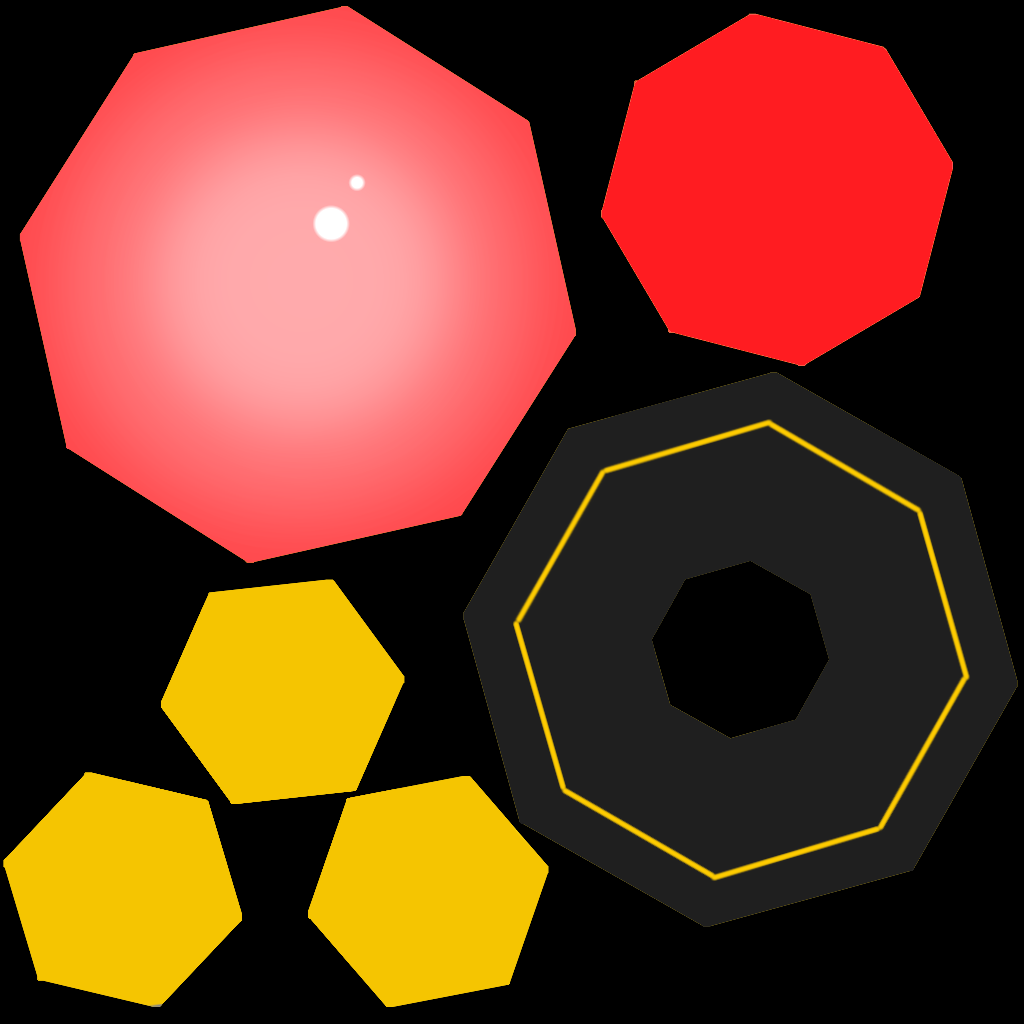
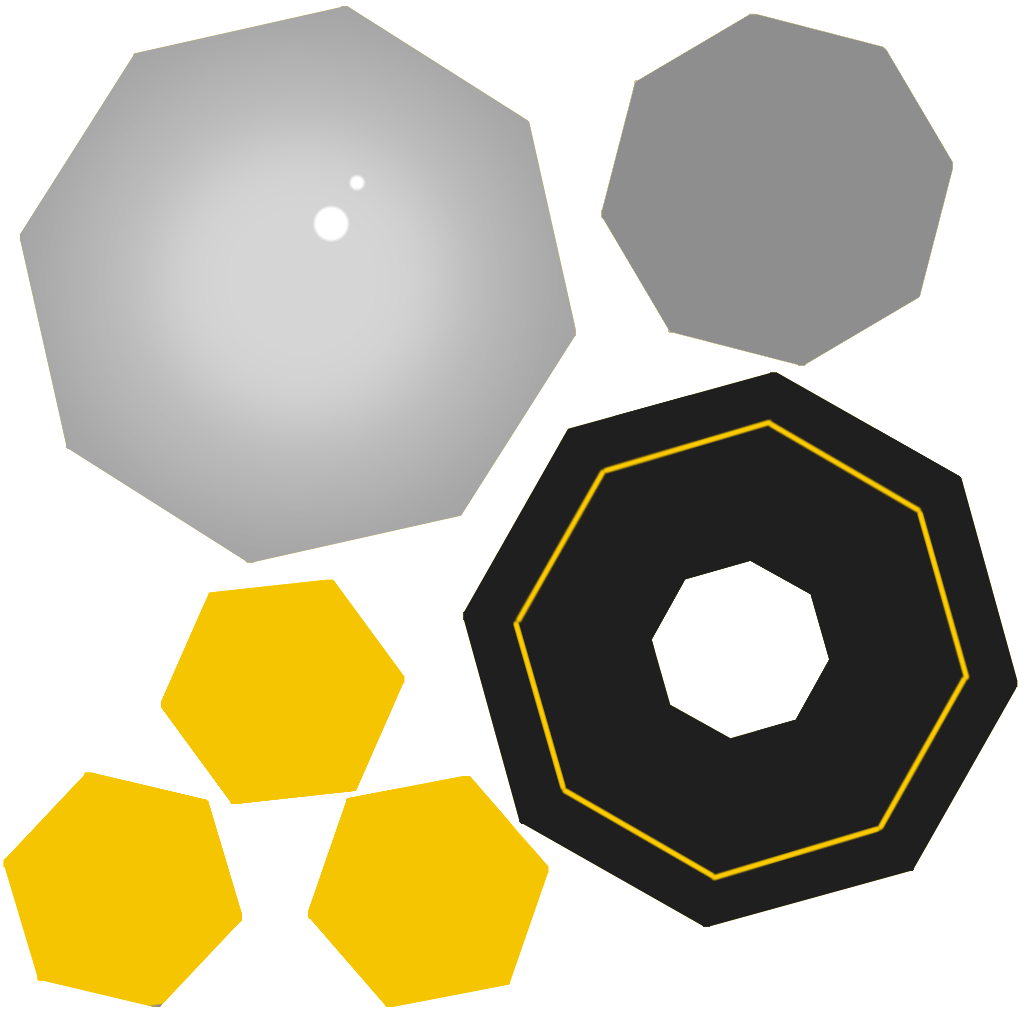
UFOのテクスチャ変更とチュートリアルのテクスチャを読み込み

diff --git a/Main/GameSources/Scene.cpp b/Main/GameSources/Scene.cpp
@@ -89,7 +89,13 @@ namespace basecross{
 			{ L"ChainLetter.png", L"ChainLetter_TX"},
 			{ L"sippai.png", L"sippai_TX"}
 			{ L"normal.png", L"NORMAL_TX"},
-			{ L"hard.png", L"HARD_TX"}
+			{ L"hard.png", L"HARD_TX"},
+			{ L"tutorialback.png", L"TUTORIAL_TX"},
+			{ L"tutorial1.png", L"TUTO1_TX"},
+			{ L"tutorial2.png", L"TUTO2_TX"},
+			{ L"tutorial3.png", L"TUTO3_TX"},
+			{ L"tutorial4.png", L"TUTO4_TX"},
+			{ L"tutorial5.png", L"TUTO5_TX"}
 		};
 
 		for (auto texture : textures)

diff --git a/Main/GameSources/StageSelect.cpp b/Main/GameSources/StageSelect.cpp
@@ -6,6 +6,8 @@ namespace basecross {
 		CreateViewLight();
 		auto titleBack = AddGameObject<Sprite>(L"SkyBox_Back_TX", Vec2(1300, 800));
 		titleBack->SetPosition(Vec2(640, 400));
+		auto selectText = AddGameObject<Sprite>(L"StageSelect_TX", Vec2(1024, 128));
+		selectText->SetPosition(Vec2(650, 50));
 		m_fade = AddGameObject<FadeInOut>(Vec2(640, 400), Vec2(1280, 800));
 		CreateStageNum();
 	}
